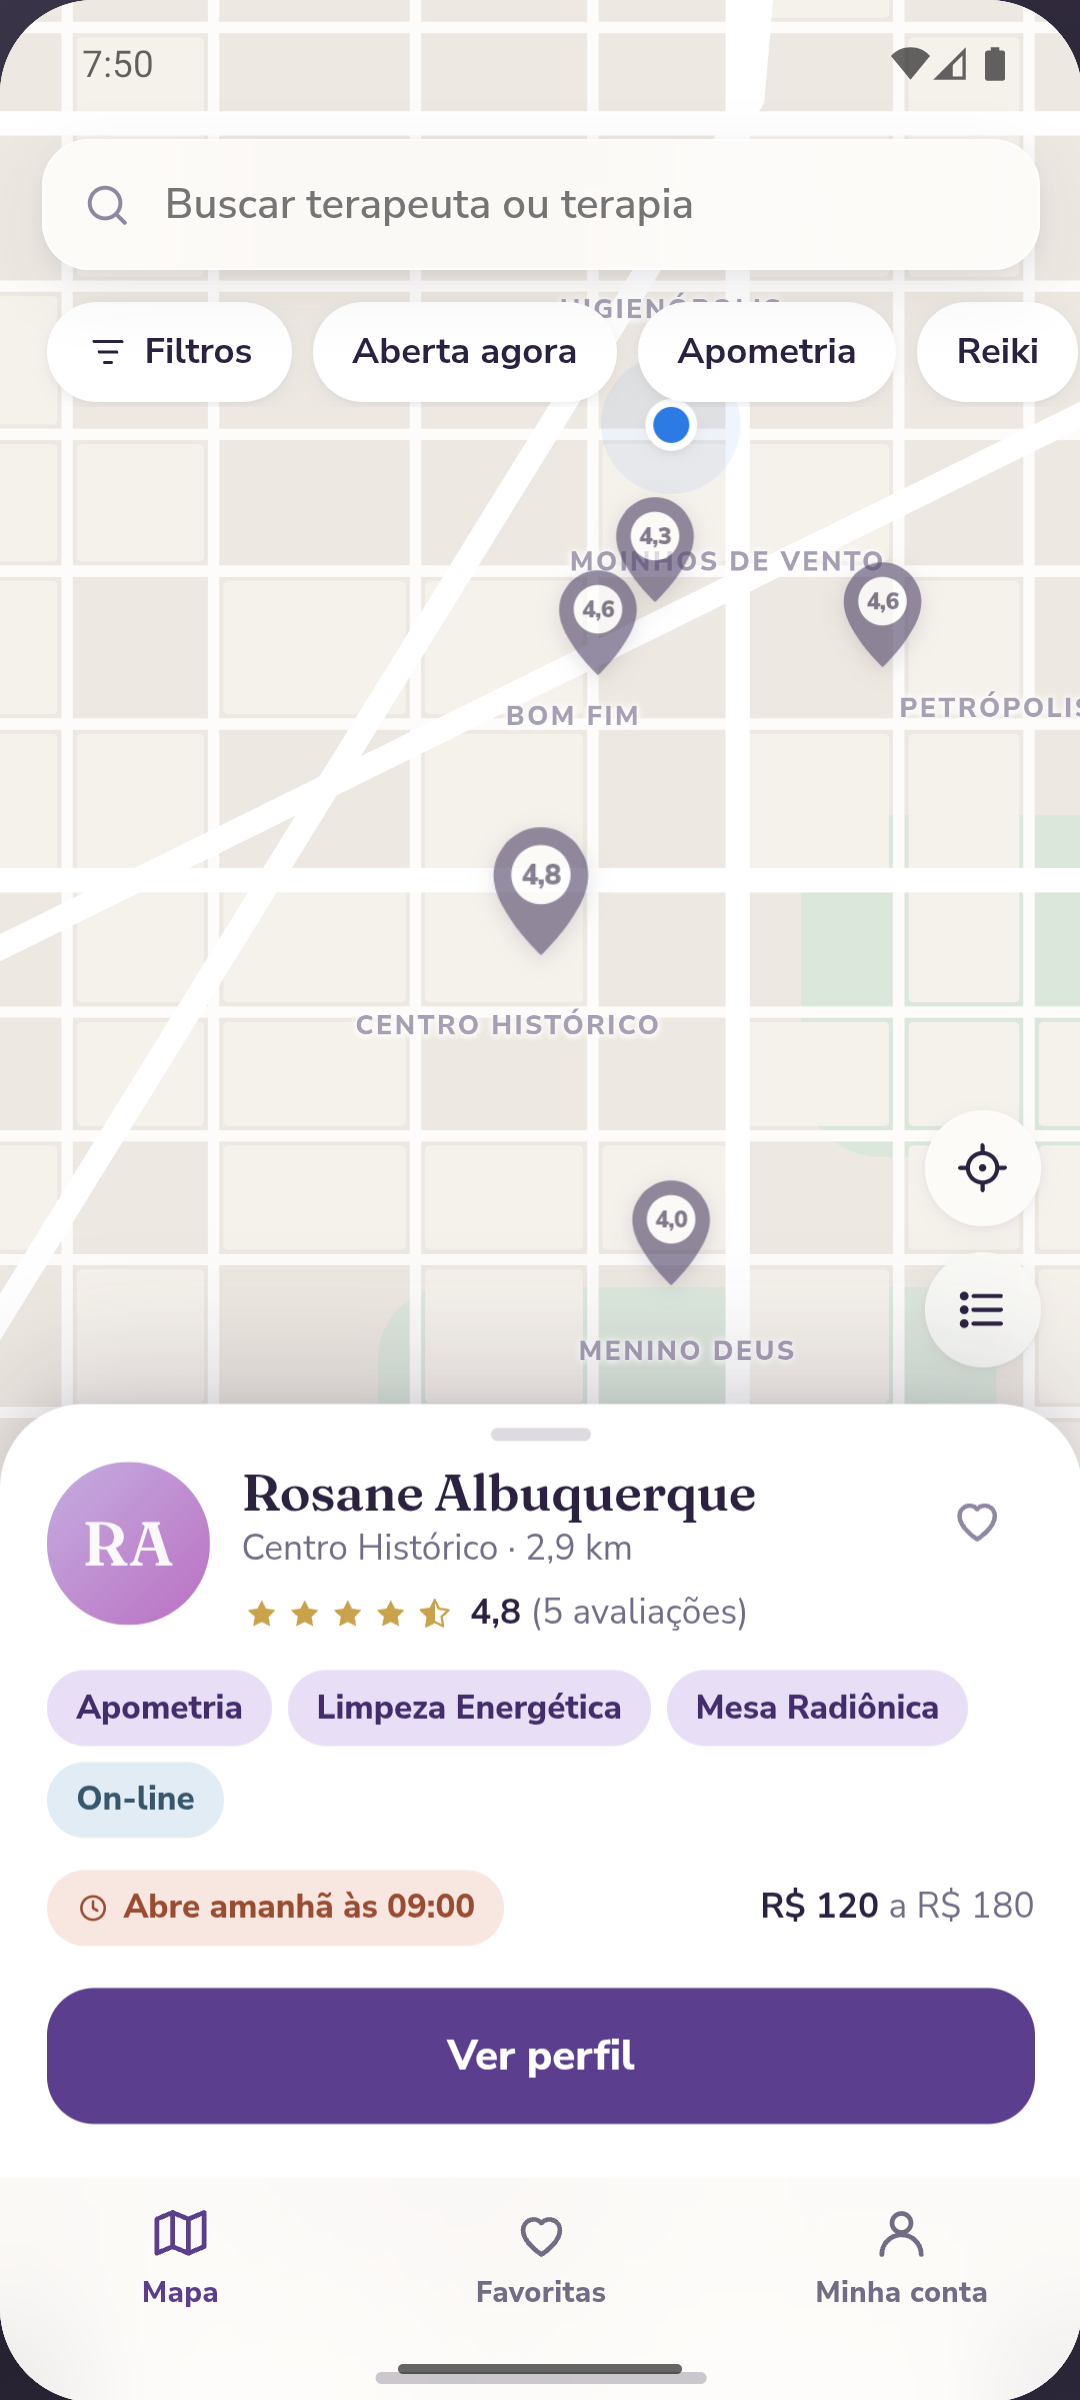
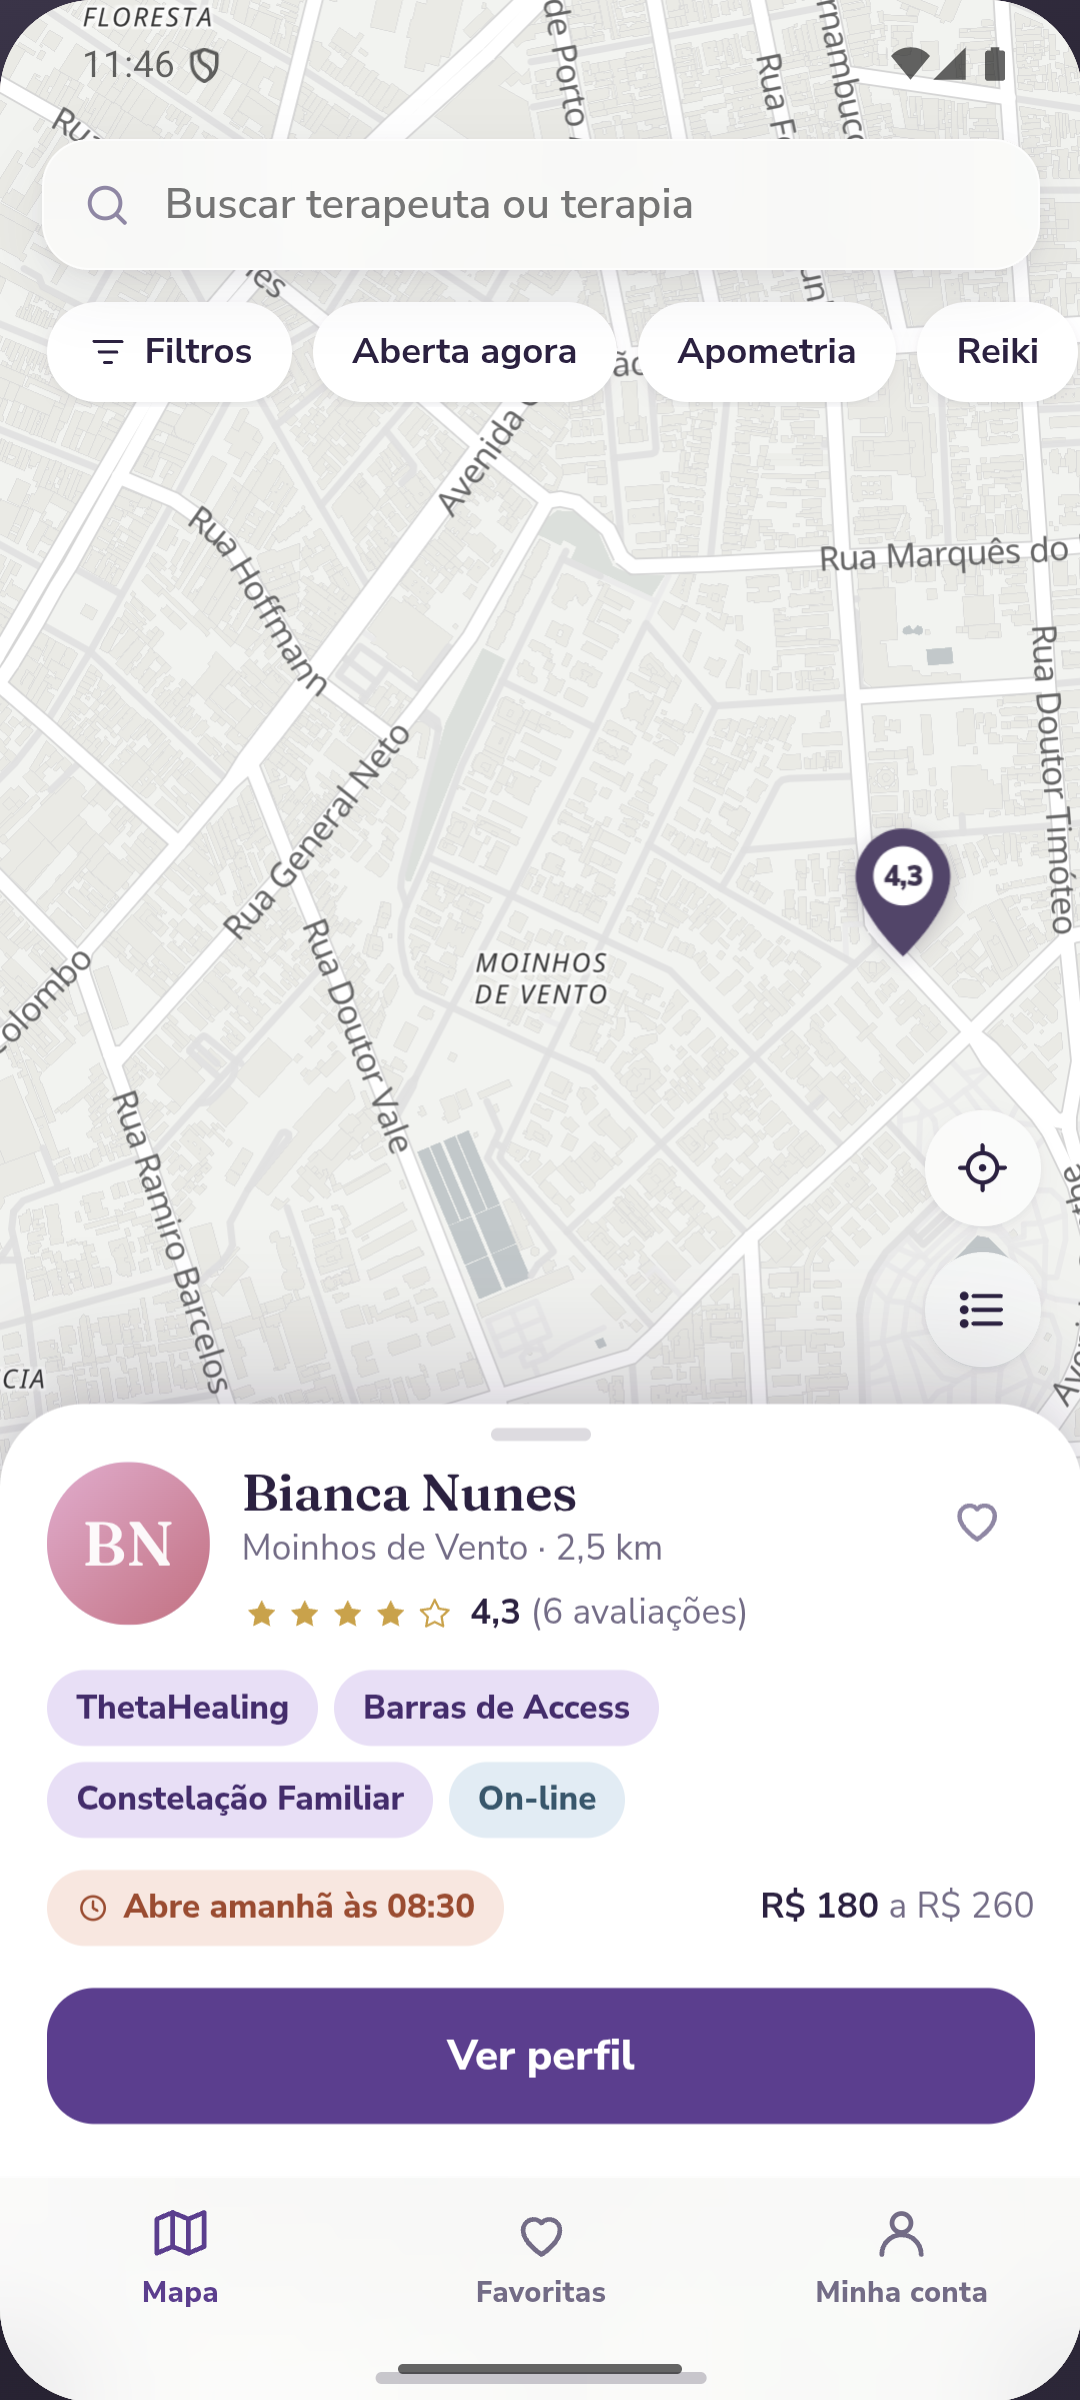
Capturas novas: o mapa real rodando no aparelho, e o plano B
- mapa.png e card.png agora sao do aplicativo Android num Pixel 6, com as ruas
  reais de Porto Alegre
- plano-b.png: modo aviao + cache limpo, o mapa desenhado assumindo — a prova
  de que sem internet o app continua inteiro

diff --git a/README.md b/README.md
@@ -15,10 +15,14 @@ navegador, sem instalar nada e sem internet depois de carregar.
   que não veio da Play Store; ele não pede nenhuma permissão e não acessa a rede).
 
 <p align="center">
-  <img src="capturas/mapa.png" width="30%" alt="O mapa com as terapeutas da região">
-  <img src="capturas/card.png" width="30%" alt="Card resumido ao tocar num pino">
+  <img src="capturas/mapa.png" width="30%" alt="O mapa de ruas reais com as terapeutas da região">
+  <img src="capturas/card.png" width="30%" alt="Card resumido ao tocar num pino, sobre o bairro de verdade">
   <img src="capturas/perfil.png" width="30%" alt="Perfil completo da terapeuta">
 </p>
+
+<p align="center"><sub>Capturas do aplicativo Android rodando num Pixel 6. Sem internet
+(e sem cache), o mapa de ruas dá lugar a um traçado desenhado por código e o app
+continua inteiro — <a href="capturas/plano-b.png">é este aqui</a>.</sub></p>
 
 ---
 
